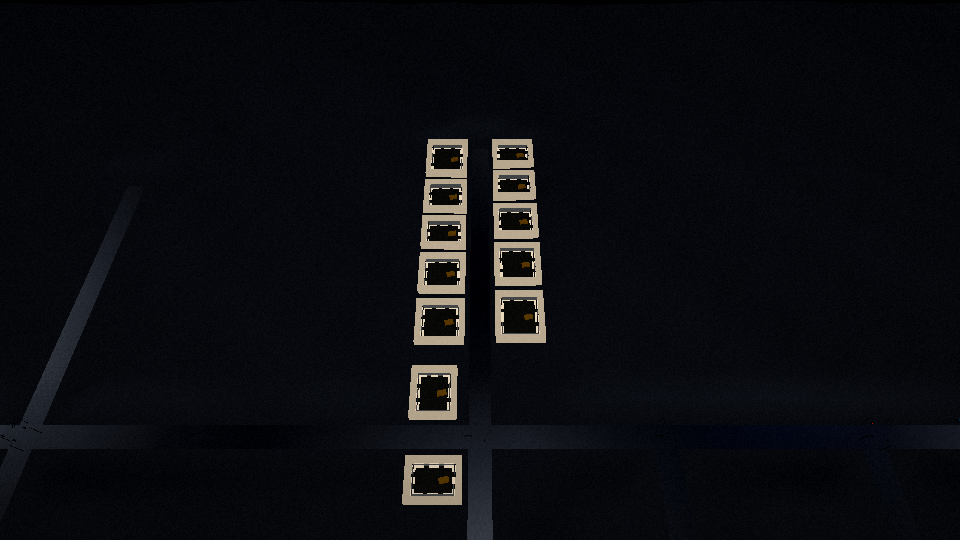
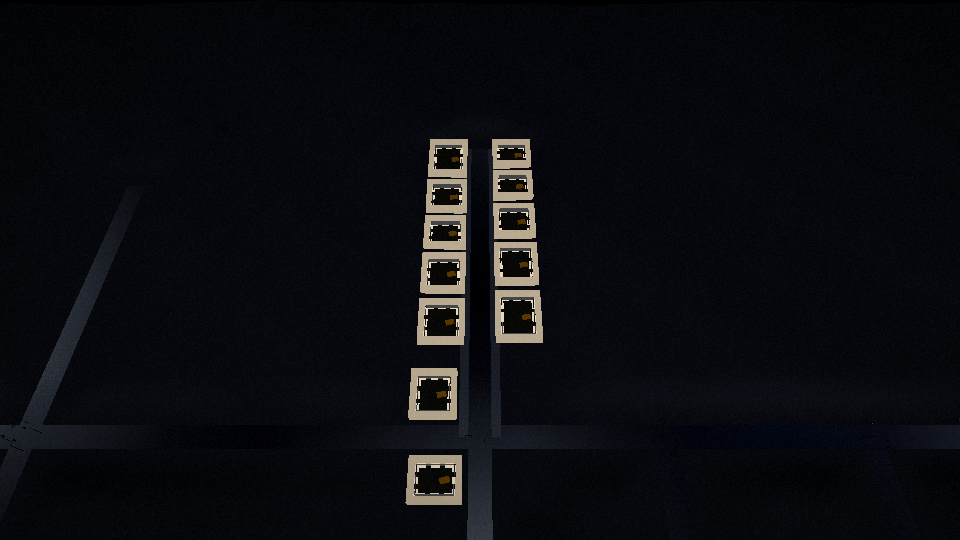
M5.T3d (M5-1): the dragged road is drawn end to end
Task M5.T3d, filled by opencode-go/deepseek-v4.1-flash and checked by scripts/crew.mjs: task checks green, draws 125.

diff --git a/src/render/roads.js b/src/render/roads.js
@@ -196,6 +196,53 @@ function edgeLines(map, nodes, out) {
   }
 }
 
+// The dress a road a player dragged (way 'op') carries (M5.T3d): a walk and a
+// kerb per side, centre dashes and edge lines, so a new street reads between
+// its lots the way a generated avenue does. The district's own ways keep the
+// tables above; only the graph's op edges are walked here. End lines stop a
+// road's half-width short of each end, so paint never runs into a junction.
+function opDress(map, nodes) {
+  const walks = [];
+  const kerbs = [];
+  const markings = [];
+  const dash = 3;
+  const clear = ROAD_HALF + 0.6;
+  for (const e of map.graph.edges) {
+    if (e.way !== 'op') continue;
+    const a = nodes.get(e.a);
+    const b = nodes.get(e.b);
+    if (!a || !b) continue;
+    const vertical = a.x === b.x;
+    const len = Math.abs(vertical ? b.z - a.z : b.x - a.x);
+    if (len <= 2 * clear) continue;
+    const mid = (vertical ? a.z + b.z : a.x + b.x) / 2;
+    const walkOff = ROAD_HALF + WALKWAY_WIDTH / 2;
+    const kerbOff = ROAD_HALF + KERB_WIDTH / 2;
+    for (const side of [-1, 1]) {
+      walks.push(vertical
+        ? slab(a.x + side * walkOff, 0, mid, WALKWAY_WIDTH, WALK_RISE, len)
+        : slab(mid, 0, a.z + side * walkOff, len, WALK_RISE, WALKWAY_WIDTH));
+      kerbs.push(vertical
+        ? slab(a.x + side * kerbOff, KERB_RISE / 2, mid, KERB_WIDTH, KERB_RISE, len)
+        : slab(mid, KERB_RISE / 2, a.z + side * kerbOff, len, KERB_RISE, KERB_WIDTH));
+    }
+    const lo = (vertical ? Math.min(a.z, b.z) : Math.min(a.x, b.x)) + clear;
+    const hi = (vertical ? Math.max(a.z, b.z) : Math.max(a.x, b.x)) - clear;
+    for (const v of rhythmIn(3, 6, lo + dash / 2 + 0.5, hi - dash / 2 - 0.5)) {
+      if (vertical) mark(markings, a.x, v, 0.10, dash);
+      else mark(markings, v, a.z, dash, 0.10);
+    }
+    for (const side of [-1, 1]) {
+      if (vertical) {
+        for (const [zc, span] of zoneSplit(lo, hi)) mark(markings, a.x + side * EDGE_LINE_OUT, zc, 0.10, span);
+      } else {
+        mark(markings, (lo + hi) / 2, a.z + side * EDGE_LINE_OUT, hi - lo, 0.10);
+      }
+    }
+  }
+  return { walks, kerbs, markings };
+}
+
 // Every road piece of a map, before a pool exists, keyed to the edge or
 // junction it belongs to. `extras` are the pieces block.js wires for the map
 // (the hand preset's promenade, the mid-block zebras). Pure, so a test can
@@ -203,6 +250,7 @@ function edgeLines(map, nodes, out) {
 export function roadPieces(map = worldMap(), extras = {}) {
   const nodes = new Map(map.graph.nodes.map((n) => [n.id, n]));
   const paving = pavingPieces(map, nodes);
+  const op = opDress(map, nodes);
   const markings = [];
   dashPieces(map, nodes, markings);
   zebraPieces(map, markings);
@@ -215,9 +263,9 @@ export function roadPieces(map = worldMap(), extras = {}) {
   }
   return {
     carriageway: carriagewayPieces(map, nodes),
-    walks: [...paving.walks, ...(extras.walks ?? [])],
-    kerbs: [...paving.kerbs, ...(extras.kerbs ?? [])],
-    markings: [...markings, ...(extras.markings ?? [])],
+    walks: [...paving.walks, ...op.walks, ...(extras.walks ?? [])],
+    kerbs: [...paving.kerbs, ...op.kerbs, ...(extras.kerbs ?? [])],
+    markings: [...markings, ...op.markings, ...(extras.markings ?? [])],
     manholes,
   };
 }
@@ -278,7 +326,13 @@ export function buildRoads(texLoader, maxAniso, map = worldMap(), extrasOf = () 
     new THREE.MeshStandardMaterial({ color: 0x14171c, roughness: 0.7, metalness: 0.4 }),
     pieces.manholes, ROAD_SLACK,
   );
-  for (const pool of [road, walks, kerbs, markings]) group.add(pool.group);
+  // Every piece a road is drawn from answers to the name 'road', so a pick
+  // (game/probe.js) can say what the tarmac under a point is (M5.T3d).
+  for (const pool of [road, walks, kerbs, markings]) {
+    for (const mesh of pool.meshes) mesh.name = 'road';
+    group.add(pool.group);
+  }
+  manholes.mesh.name = 'road';
   group.add(manholes.mesh);
 
   const update = (next = worldMap()) => {

diff --git a/src/sim/ops.js b/src/sim/ops.js
@@ -298,6 +298,33 @@ function roadBox(a, b) {
   };
 }
 
+// The overview draws a 1.3 m dashed boundary on a free lot's edge (render/
+// vacant.js), so it reaches 0.65 m past the footprint. A lot an op plans keeps
+// a metre of that clear of the back, so the marker stands inside the reach the
+// op dirties and the open land 20 m off a new road stays open ground (M5.T3d).
+const MARKER_CLEAR = 1;
+
+// A planned lot's depth, held clear of its own boundary marker. The lot fronts
+// one road span: its plot runs BUILD_LINE..BUILD_LINE+depth from that centre-
+// line, and the depth is the footprint's width on a z-running road, its depth
+// on an x-running one. The front edge stays where the plan put it.
+function clearOfMarker(map, [x, z, w, d], byId) {
+  const road = frontageRoad(map, { x, z, w, d }, byId);
+  if (!road) return [x, z, w, d];
+  const a = byId.get(road.edge.a);
+  const b = byId.get(road.edge.b);
+  if (!a || !b) return [x, z, w, d];
+  const cap = ROW_DEPTH_MAX - MARKER_CLEAR;
+  if (a.x === b.x) {
+    const depth = Math.min(w, cap);
+    if (depth === w) return [x, z, w, d];
+    return [a.x + (Math.sign(x - a.x) || 1) * (BUILD_LINE + depth / 2), z, depth, d];
+  }
+  const depth = Math.min(d, cap);
+  if (depth === d) return [x, z, w, d];
+  return [x, a.z + (Math.sign(z - a.z) || 1) * (BUILD_LINE + depth / 2), w, depth];
+}
+
 // The parcel shape sim/map.js gives a lot (lotParcel), for a lot a road op
 // plans: a whole empty parcel, not a stub. map.js is not imported for it
 // because map.js imports this module's layout, so the shape is kept in step by
@@ -360,8 +387,9 @@ function replanFrontage(map, box, byId) {
   // plan's own.
   for (const { id, lot } of lots) {
     if (waterBlocked(map.water ?? [], ...lot)) continue;
-    map.parcels.push(newLotParcel(id, lot));
-    map.lots.push(lot);
+    const shape = clearOfMarker(map, lot, byId);
+    map.parcels.push(newLotParcel(id, shape));
+    map.lots.push(shape);
   }
   for (const b of buildings) {
     if (waterBlocked(map.water ?? [], b.x, b.z, b.w, b.d)) continue;

diff --git a/src/render/cityview.js b/src/render/cityview.js
@@ -95,9 +95,18 @@ function growKerbs(rig, needed) {
   next.setColorAt(0, white);
   next.frustumCulled = false;
   next.visible = rig.kerbs.visible;
+  unpickable(next);
   rig.group.remove(rig.kerbs);
   rig.group.add(next);
   rig.kerbs = next;
+}
+
+// The zone kerbs are planning chrome, not world: a raw pick under one should
+// name the land it outlines, the way the bulldozer's own picker reads parcels
+// and roads and never the overlay (M5.T3d). Without this a screen shot's pick
+// over open land beside a lot answers 'kerb' and the ground under it is hidden.
+function unpickable(mesh) {
+  mesh.raycast = () => {};
 }
 
 // Four kerbs round every lot, risen by the eased lift so they grow out of the
@@ -288,6 +297,7 @@ export function buildCityView(city, view) {
   kerbs.setColorAt(0, white);
   kerbs.frustumCulled = false;
   kerbs.visible = false;
+  unpickable(kerbs);
   // The scene gets the group: kerbs can grow and the mark come and go inside.
   const group = new THREE.Group();
   group.add(kerbs);

diff --git a/src/render/landscape.js b/src/render/landscape.js
@@ -149,7 +149,7 @@ function buildGroundFrame(map) {
   });
   const mesh = new THREE.Mesh(displaceToTerrain(mergeGeometries(geos), terrainOf(map)),
     new THREE.MeshStandardMaterial({ color: GROUND_HEX, roughness: 1, metalness: 0 }));
-  mesh.name = 'build ground';
+  mesh.name = 'ground';
   mesh.position.y = -GROUND_SINK;
   mesh.receiveShadow = true;
   return mesh;
